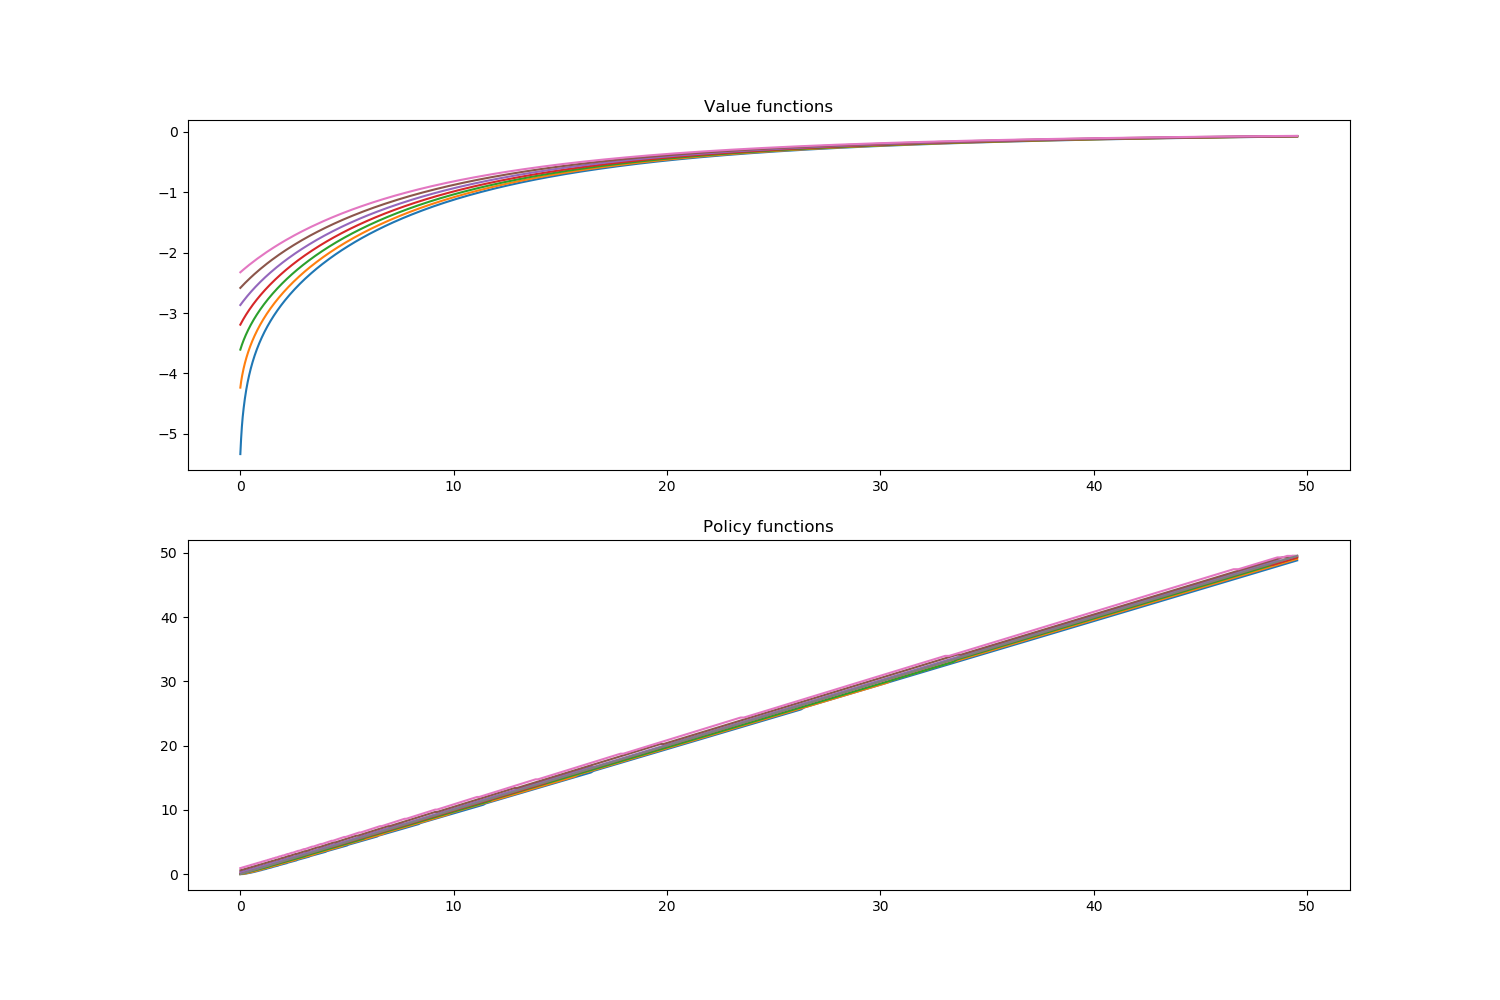
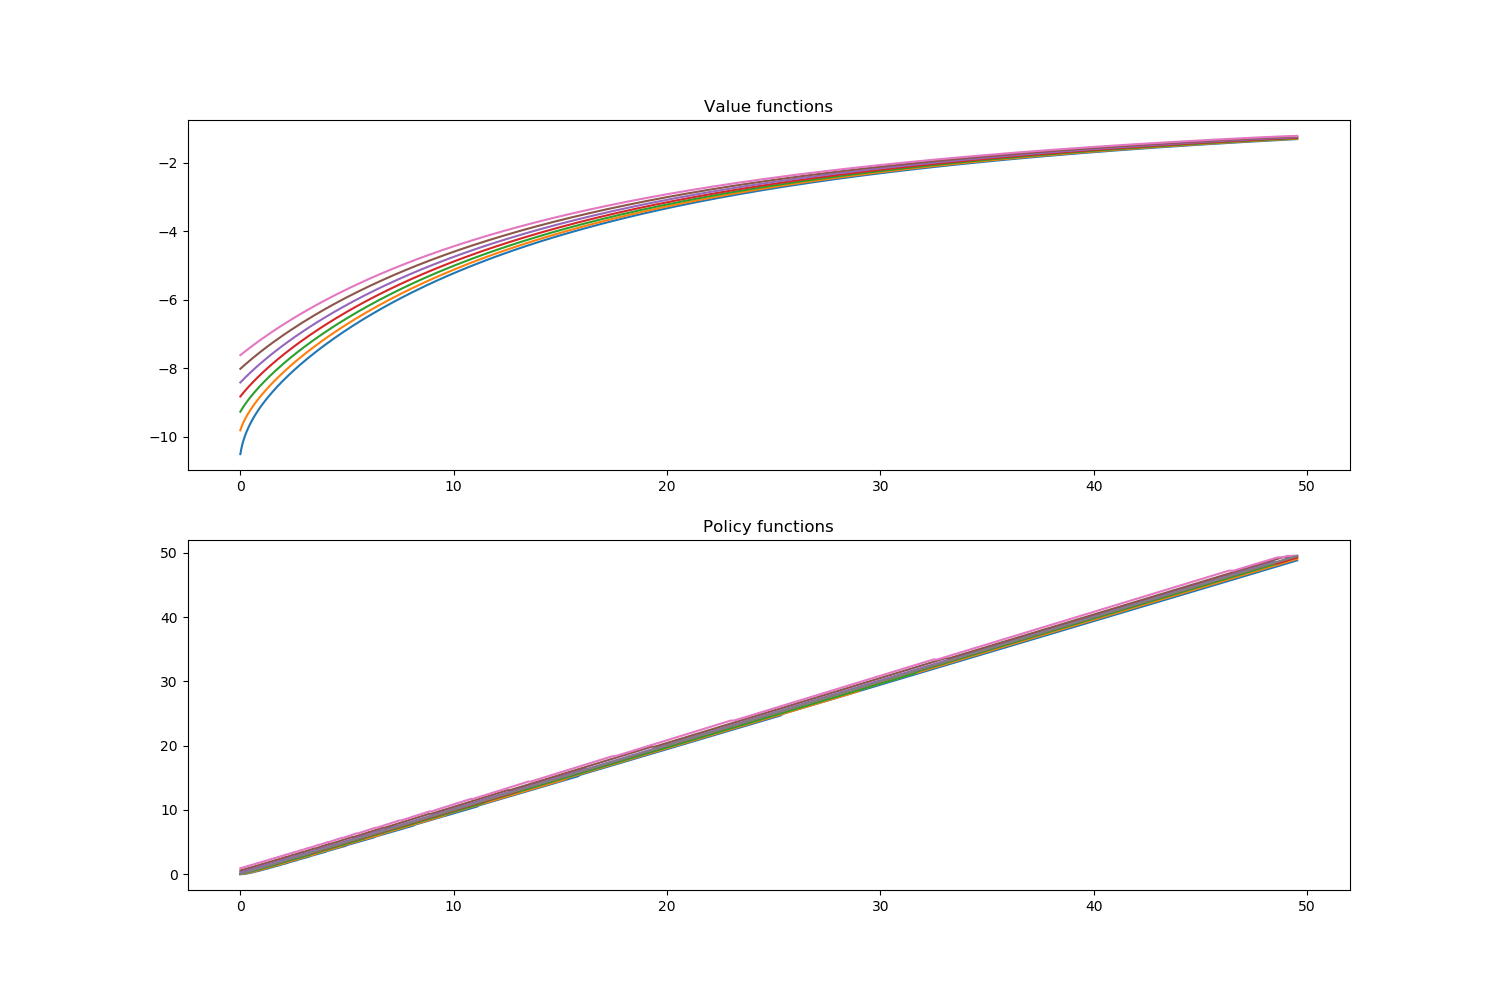
update

Changed region(s): [[0.1533, 0.124, 0.8587, 0.434], [0.6133, 0.651, 0.644, 0.682]]

diff --git a/Aiyagari-Value Function-Monte Carlo.py b/Aiyagari-Value Function-Monte Carlo.py
@@ -13,53 +13,76 @@ import quantecon as qe
 from numba import jit
 
 
-#parameters
-theta = 0.36 
-delta = 0.08
-sigma = 5
-beta  = 0.96
-nz    = np.int(7)
-rho   = 0.6
-stdev = 0.2
-stdz  = stdev*(1-rho**2)**(1/2)
-m     = 3
-nk   = np.int(500)
- 
+class HH:
+    
+    def __init__(self, theta = 0.36, delta = 0.08, sigma = 3, 
+                 beta = 0.96, nz = 7, rho = 0.9, stdev = 0.2,
+                 m = 3, nk = 500, kmin = 10**(-5), kmax = 50,
+                 T = 1000000):
+        
+        # Setup parameters
+        self.theta, self.delta, self.sigma = theta, delta, sigma
+        self.beta, self.nz, self.nk, self.m = beta, nz, nk, m
+        self.rho, self.stdev, self.T = rho, stdev, T
+        self.stdz = stdev*(1-rho**2)**(1/2)
+        self.kmin, self.kmax = kmin, kmax
+        
+        # Setting up the grid
+        self.k = np.zeros(nk)
+        for i in range(nk):
+            self.k[i] = kmin + kmax/((nk+1)**2.35)*(i**2.35)
+        
+    def utility(self, c):
+        if self.sigma == 1:
+            u = np.log(c)
+        else:
+            u = c**(1-self.sigma)/(1-self.sigma)
+        return u
+    
+    def interest(self,k):
+        return self.theta*(k/self.l_s)**(self.theta-1) - self.delta
+    
+    def interest_reverse(self,r):
+        return (self.theta/(r+self.delta))**(1/(1-self.theta))*self.l_s
+    
+    def r_to_w(self, r):
+        return (1-self.theta)*((self.theta/(r+self.delta)))**(self.theta/(1-self.theta))
+    
+    def markov(self):
+        self.mc = qe.markov.approximation.tauchen(self.rho,self.stdz,
+                                             0,self.m,self.nz)
+        
+        self.sim = self.mc.simulate_indices(self.T, init = int((self.nz-1)/2))
+        
+        self.P = self.mc.P
+        self.l = np.exp(self.mc.state_values)
+        inv_l = np.linalg.matrix_power(self.P,1000)
+        inv_dist = inv_l[0,:]
+        self.l_s = np.dot(self.l, inv_dist)
+        return self.P, self.l_s, self.sim
 
-#discretizing the grid
-mc = qe.markov.approximation.tauchen(rho,stdz,0,m,nz)
-P = mc.P
-l = np.exp(mc.state_values)
-inv_l = np.linalg.matrix_power(P,1000)
-inv_dist = inv_l[0,:]
-l_s = np.dot(l, inv_dist)
 
-
-# Drawing realizations
-T = 1000000
-sim = mc.simulate_indices(T, init = int((nz-1)/2))
-
-
-#discretizing the k grid
-k_ss  = ((beta*theta)/(1-beta*(1-delta)))**(1/(1-theta))
-kmin = 10**(-5)
-kmax = 50
-k = np.zeros(nk)
-for i in range(nk):
-    k[i] = kmin + kmax/((nk+1)**2.35)*(i**2.35)
+# Generating a class
+nz = 7
+nk = 500
+sigma = 3
+rho = 0.6
+hh = HH(nz = nz, nk = nk, rho = rho, sigma = sigma)
+P, l_s, sim = hh.markov()
 
 
 # Current level
-r = 3.87/100
-k_t = (theta/(r+delta))**(1/(1-theta))*l_s
+r = (3.87-1)/100
+k_t = hh.interest_reverse(r)
 
 
-#Value function iteration
+# Value function iteration
 @jit 
-def Value(w, R, sigma = sigma, beta = beta, P = P):
+def Value(r, HH, tolv = 10**(-8), maxiter = 1000):
+    w = HH.r_to_w(r)
+    sigma, beta, P = HH.sigma, HH.beta, HH.P
+    l, k = hh.l, hh.k
     diff    = 10
-    maxiter = 1000
-    tolv    = 10**-8
     iter    = 1
     
     # Empty matrices
@@ -70,7 +93,7 @@ def Value(w, R, sigma = sigma, beta = beta, P = P):
     while (diff > tolv and iter<maxiter):
         for iz in range(nz):
             for ik in range(nk):
-                c = w*l[iz] + R*k[ik] - k
+                c = w*l[iz] + (1+r)*k[ik] - k
                 if sigma != 1:
                     u = c**(1-sigma)/(1-sigma)
                 else:
@@ -90,7 +113,9 @@ def Value(w, R, sigma = sigma, beta = beta, P = P):
 
 # Simulate the economy and find capital supply
 @jit
-def simulate(mc, indk, l = sim, k = k, N = 5000, T = T):
+def simulate(HH, indk, N = 5000):
+    mc, l, k, T = HH.mc, HH.sim, HH.k, HH.T
+    
     nz  = np.shape(mc.P)[0]
     T   = np.shape(l)[0]
     m   = T/N
@@ -107,36 +132,42 @@ def simulate(mc, indk, l = sim, k = k, N = 5000, T = T):
 
 # Function to solve for the equilibrium
 @jit
-def Aiyagari(l, k_t):
+def Aiyagari(HH, k_t):
+    beta = HH.beta
     iter    = 0
     error   = 10
     tol     = 0.01
     
     while error > tol:
-        r = theta*(k_t/l_s)**(theta-1) - delta
+        r = HH.interest(k_t)
         if r > 1/beta - 1:
             r = 1/beta - 1
-        R = 1+r
-        w = (1-theta)*((theta/(r+delta)))**(theta/(1-theta))
         iter = iter+1
         
         # Value function iteration
         start1 = time.time()
-        V, g, indk = Value(w,R)   
+        V, g, indk = Value(r, HH)   
         stop1 = time.time()                   
         
         # Find capital supply
         start2 = time.time()
-        a = simulate(mc, indk)
+        a = simulate(HH, indk)
         stop2 = time.time()
         k_s = np.mean(a)
-        r1 = theta*(k_s/l_s)**(theta-1) - delta
+        r1 = HH.interest(k_s)
         error = np.abs(r-r1)*100
         print("\n--------------------------------------------------------------------------------------")
         print("The error in iteration %.0F is %F." % (iter, error))
         print("The capital supply is %F, and the interest rate is %F." %(k_s, r*100))
         print("Value function and simulation took %.3F and %.3F seconds respectively" % ((stop1-start1), (stop2-start2)))
-        k_t = 0.99*k_t + 0.01*k_s
+        if error > 2:
+            k_t = 0.95*k_t + 0.05*k_s
+        elif error > 0.5:
+            k_t = 0.99*k_t + 0.01*k_s
+        elif error > 0.05:
+            k_t = 0.995*k_t + 0.005*k_s
+        else:
+            k_t = 0.999*k_t + 0.001*k_s
     print("\nThe equilibrium interest rate is %F." % (r*100))
     # Das Ziel sollte 3.87 sein 
     # Resultat war 3.6498 (Check against QE results)
@@ -145,25 +176,25 @@ def Aiyagari(l, k_t):
 
 # Running the function
 start = time.time()
-V, g, indk, a, r = Aiyagari(l,k_t)
+V, g, indk, a, r = Aiyagari(hh,k_t)
 stop = time.time()
 print("Solving the model took %F minutes." %((stop - start)/60))
 
 
 # Plot the value function and the policy function
 fig, axes = plt.subplots(nrows = 2, ncols = 1, figsize=(15,10))
-axes[0].plot(k,V.transpose())
+axes[0].plot(hh.k,V.transpose())
 axes[0].set_title("Value functions")
 
-axes[1].plot(k,g.transpose())
-axes[1].plot(k,k)
+axes[1].plot(hh.k,g.transpose())
+axes[1].plot(hh.k,hh.k)
 axes[1].set_title('Policy functions')
 plt.show()
 plt.savefig("convergence.png")
 
 
 # Generate a new distribution
-dist = simulate(mc,indk,N = 10000)
+dist = simulate(HH,indk)
 
 
 # Plot the distribution

diff --git a/Aiyagari-Howard Improvement.py b/Aiyagari-Howard Improvement.py
@@ -1,11 +1,10 @@
-# -*- coding: utf-8 -*-
 """
-Spyder Editor
 
 This solves the Aiyagari model with policy function iteration
 Furthermore, it aggreagtes the economy with the invariate distribution
 
 """
+
 
 import numpy as np
 import time
